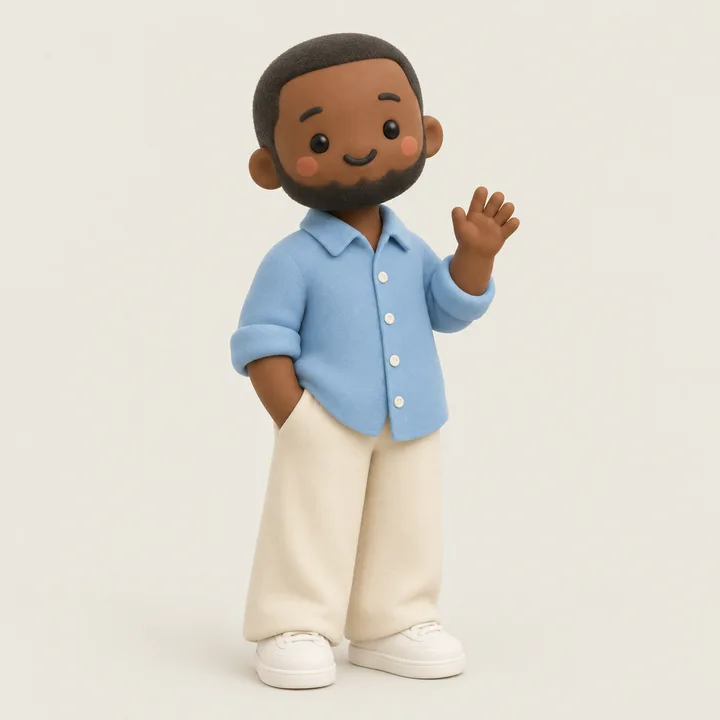
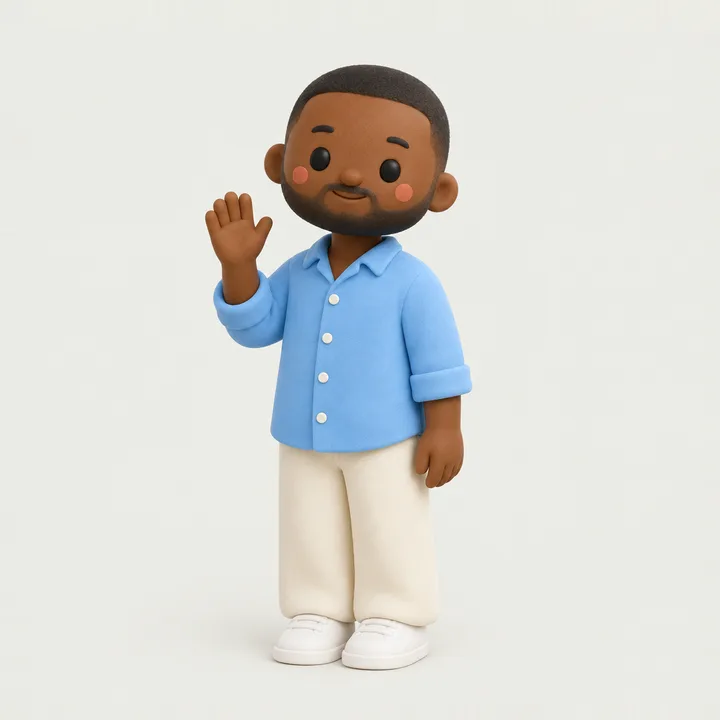
Cast portraits: one pose, one scale; 'Which one feels like you?'
The six portraits are redrawn in the same pose and lined up to the same
height, feet line, head centre and background tone, so switching on the
card doesn't jump. The heading no longer promises customising.

Claude-Session: https://claude.ai/code/session_018T6pyithhvd2BCmSxdwWP7

Changed region(s): [[0.275, 0.0306, 0.7333, 0.9778]]

diff --git a/src/components/onboarding.tsx b/src/components/onboarding.tsx
@@ -175,9 +175,11 @@ export function Onboarding({
         {step === "look" && (
           <div key="look" className="rise flex flex-1 flex-col pt-2">
             <h1 className="text-[28px] font-medium leading-tight">
-              What do you look like, {name.trim()}?
+              Which one feels like you, {name.trim()}?
             </h1>
-            <p className="mt-2 text-sm text-muted">Pick your clay you. You can change it any time.</p>
+            <p className="mt-2 text-sm text-muted">
+              Pick a little you for the journey. You can change it any time.
+            </p>
             <div className="mt-5">
               <CharacterBuilder look={look} onChange={setLook} name={name.trim()} />
             </div>

diff --git a/SPEC.md b/SPEC.md
@@ -160,10 +160,11 @@ quiet). Phone frame: iPhone 13 / 390px.
   purchase tagged with bucket + feeling (shop's usual bucket preselected). Ids are derived from
   the row, so re-importing a statement only shows what's new. Not yet tried on a real Amex file.
 - ✅ Meet you (first two onboarding steps): "Welcome to monifes / What should we call you?",
-  then "What do you look like?" — two answers (woman/man · light/medium/deep skin) pick your
+  then "Which one feels like you?" — two answers (woman/man · light/medium/deep skin) pick your
   character from a cast of six clay people; the portrait swaps instantly on the card, and the
   welcome album then shows *that* character in all six moments. Art: `public/cast/<id>/`
-  (portrait + six moments each, 720px WebP), made once with Figma AI in "monifes — clay art" —
+  (portrait + six moments each, 720px WebP; portraits share one pose and are lined up to the same
+  height, feet line and background tone), made once with Figma AI in "monifes — clay art" —
   no running cost. Saved locally under `monifes:me:v1` for now (not yet synced).
   Tried and dropped along the way: a 3D clay figure in three.js (not cute enough), an ink
   line-art builder (preferred clay), and per-person AI generation through AI Gateway (≈ ¥30 a
